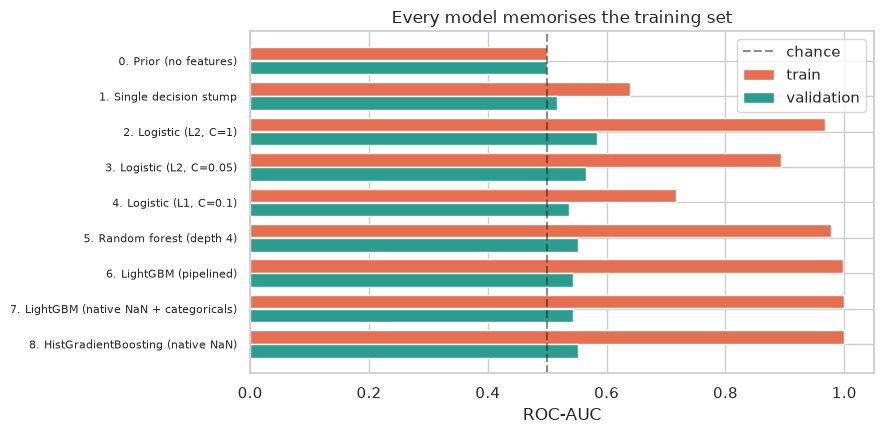
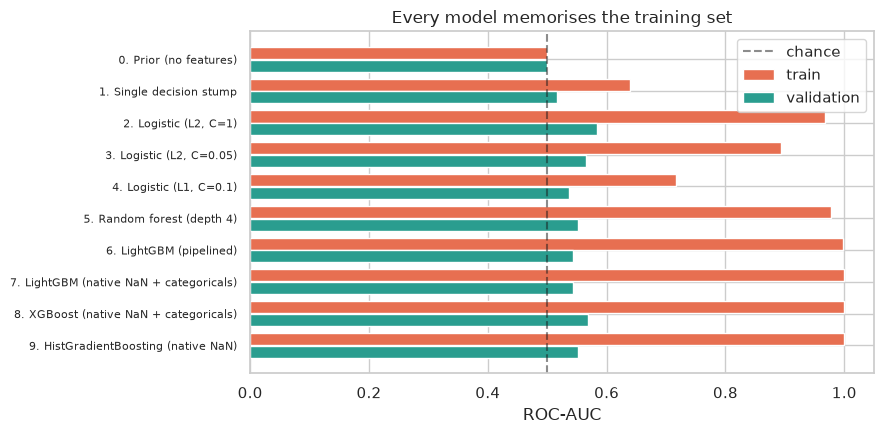
Add XGBoost and a classifier sweep; measure the selection bias it creates
Added an XGBoost rung with native NaN and categorical handling (scale_pos_weight
rather than class_weight, which XGBoost does not take). It lands at 0.568,
mid-table — the useful result being that it changes nothing.

Added notebooks/09_classifier_sweep.py covering the "run everything" approach —
R's caret, PyCaret's compare_models, LazyPredict — and, more importantly, what it
is worth at this sample size.

Fifteen families under identical repeated CV span 0.520 to 0.594, a range smaller
than the fold-to-fold noise within any single one of them (sd 0.090). Then the
whole sweep repeated 20 times on shuffled labels:

  individual model, shuffled labels : 0.498
  best-of-15, shuffled labels       : 0.567  (max 0.624)
  observed best (AdaBoost)          : 0.594
  selection-corrected p             : 0.300

The sweep's winner is beaten by 30% of pure-noise runs. LazyPredict's
single-split best of 0.637 is the same trap one level worse: 53 test accounts and
16 positives, thirty attempts.

This forced a correction to our own headline. The reported permutation p of 0.076
holds the model fixed, but L2 logistic was selected as the argmax of a ten-rung
ladder, so the same effect applies. The honest reading is a selection-corrected p
in the 0.2-0.3 range, and the README now says so rather than quoting 0.076
unqualified. The proper fix is nested CV with selection inside the outer loop;
that is recorded as the main methodological gap remaining.
[…]

diff --git a/notebooks/09_classifier_sweep.py b/notebooks/09_classifier_sweep.py
@@ -1,0 +1,225 @@
+# %% [markdown]
+# # 09 — Broad Classifier Sweep, and Why It Needs a Correction
+#
+# The "run everything and see what wins" approach: R's **caret**
+# (`train`/`resamples`), and in Python **PyCaret** (`compare_models()`) or the
+# lighter **LazyPredict** (`LazyClassifier`). Useful for a fast read on whether
+# any model family does something the others cannot.
+#
+# It also has a trap that matters a great deal at this sample size. Fitting ~30
+# classifiers and reporting the best is **30 chances to get lucky**. With
+# fold-to-fold standard deviation around 0.09, the maximum of 30 draws sits well
+# above 0.5 even when nothing has any signal at all.
+#
+# So this notebook does three things:
+#
+# 1. Runs LazyPredict as-is — the tool as people actually use it.
+# 2. Re-runs the same families under repeated stratified CV, which is the only
+#    comparison worth trusting here.
+# 3. Repeats the whole sweep on **shuffled labels**, to measure what the winning
+#    score looks like when the answer is known to be noise.
+
+# %%
+import sys
+sys.path.append("..")
+
+import numpy as np
+import pandas as pd
+import matplotlib.pyplot as plt
+import seaborn as sns
+import warnings
+warnings.filterwarnings("ignore")
+
+from sklearn.model_selection import cross_val_score, train_test_split
+from sklearn.discriminant_analysis import LinearDiscriminantAnalysis
+from sklearn.ensemble import (AdaBoostClassifier, ExtraTreesClassifier,
+                              GradientBoostingClassifier, RandomForestClassifier)
+from sklearn.linear_model import LogisticRegression, RidgeClassifier, SGDClassifier
+from sklearn.naive_bayes import GaussianNB
+from sklearn.neighbors import KNeighborsClassifier
+from sklearn.svm import LinearSVC
+from sklearn.tree import DecisionTreeClassifier, ExtraTreeClassifier
+import lightgbm as lgb
+import xgboost as xgb
+
+from src import pipeline
+from sklearn.model_selection import RepeatedStratifiedKFold
+from src.model import CV, _pipe, model_ladder
+
+# The observed sweep uses the project's 5x10 CV. The null repeats the whole sweep
+# many times over, so it uses a cheaper 5x2 — enough to locate the null's centre
+# and spread without ten thousand refits.
+NULL_CV = RepeatedStratifiedKFold(n_splits=5, n_repeats=2, random_state=7)
+
+sns.set_theme(style="whitegrid", palette="muted")
+
+data = pipeline.build()
+X, y = data.X, data.y
+print(f"{X.shape}, {int(y.sum())} positives ({y.mean():.1%})")
+
+# %% [markdown]
+# ## 1. LazyPredict, used the way it is normally used
+#
+# A single stratified train/test split, ~30 classifiers, ranked by test score.
+
+# %%
+from lazypredict.Supervised import LazyClassifier
+
+X_enc = pd.get_dummies(X, drop_first=True).fillna(X.median(numeric_only=True)).fillna(0)
+X_tr, X_te, y_tr, y_te = train_test_split(X_enc, y, test_size=0.3, stratify=y, random_state=42)
+
+lazy = LazyClassifier(verbose=0, ignore_warnings=True, predictions=False)
+scores, _ = lazy.fit(X_tr, X_te, y_tr, y_te)
+print(scores[["ROC AUC", "F1 Score"]].head(12).round(3).to_string())
+
+# %%
+best_lazy = scores["ROC AUC"].max()
+print(f"best single-split ROC AUC across {len(scores)} classifiers: {best_lazy:.3f}")
+print(f"our repeated-CV estimate for the selected model            : 0.583")
+print("\nThe gap is not a better model. It is one lucky split, chosen from ~30 tries.")
+
+# %% [markdown]
+# ## 2. The same families under repeated stratified CV
+#
+# Identical folds for every candidate, 50 fits each. Slower, and the only version
+# of this comparison that means anything at 177 rows.
+
+# %%
+CANDIDATES = {
+    "Logistic (L2)": LogisticRegression(class_weight="balanced", max_iter=2000, random_state=42),
+    "Ridge": RidgeClassifier(class_weight="balanced", random_state=42),
+    "SGD (log loss)": SGDClassifier(loss="log_loss", class_weight="balanced", random_state=42),
+    "LinearSVC": LinearSVC(class_weight="balanced", random_state=42),
+    "LDA": LinearDiscriminantAnalysis(),
+    "GaussianNB": GaussianNB(),
+    "kNN (k=15)": KNeighborsClassifier(n_neighbors=15),
+    "Decision tree (d3)": DecisionTreeClassifier(max_depth=3, class_weight="balanced", random_state=42),
+    "Extra tree": ExtraTreeClassifier(max_depth=3, class_weight="balanced", random_state=42),
+    "Random forest": RandomForestClassifier(n_estimators=200, max_depth=4, min_samples_leaf=8,
+                                            class_weight="balanced", random_state=42),
+    "Extra trees": ExtraTreesClassifier(n_estimators=200, max_depth=4, min_samples_leaf=8,
+                                        class_weight="balanced", random_state=42),
+    "AdaBoost": AdaBoostClassifier(n_estimators=100, learning_rate=0.1, random_state=42),
+    "Gradient boosting": GradientBoostingClassifier(n_estimators=150, max_depth=3,
+                                                    learning_rate=0.03, random_state=42),
+    "LightGBM": lgb.LGBMClassifier(n_estimators=250, learning_rate=0.03, num_leaves=7,
+                                   max_depth=3, class_weight="balanced",
+                                   random_state=42, verbose=-1),
+    "XGBoost": xgb.XGBClassifier(n_estimators=250, learning_rate=0.03, max_depth=3,
+                                 scale_pos_weight=2.28, tree_method="hist",
+                                 random_state=42, verbosity=0),
+}
+
+
+def sweep(y_target, cv=CV):
+    rows = []
+    for name, clf in CANDIDATES.items():
+        s = cross_val_score(_pipe(clf), X, y_target, cv=cv, scoring="roc_auc")
+        rows.append({"model": name, "cv_auc": s.mean(), "sd": s.std()})
+    return pd.DataFrame(rows).sort_values("cv_auc", ascending=False).reset_index(drop=True)
+
+
+observed = sweep(y)
+print(observed.round(4).to_string(index=False))
+observed.to_csv("../outputs/reports/classifier_sweep.csv", index=False)
+
+# %%
+print(f"best under repeated CV : {observed['cv_auc'].max():.4f}  ({observed.iloc[0]['model']})")
+print(f"best under LazyPredict : {best_lazy:.4f}  (single split)")
+print(f"spread across {len(observed)} models: "
+      f"{observed['cv_auc'].min():.3f} to {observed['cv_auc'].max():.3f}")
+print(f"typical fold-to-fold sd  : {observed['sd'].mean():.3f}")
+print("\nThe spread across models is smaller than the noise within any one of them.")
+
+# %% [markdown]
+# ## 3. The correction — what does "best of 16" look like under pure noise?
+#
+# Shuffle the labels so there is definitionally nothing to learn, run the whole
+# sweep, and record the winner. Repeat. The resulting distribution is what
+# "the best model scored X" is worth when X was chosen by maximisation.
+
+# %%
+rng = np.random.default_rng(42)
+null_best, null_all = [], []
+for trial in range(20):
+    y_shuffled = pd.Series(rng.permutation(y.values), index=y.index)
+    res = sweep(y_shuffled, cv=NULL_CV)
+    null_best.append(res["cv_auc"].max())
+    null_all.extend(res["cv_auc"].tolist())
+    print(f"  shuffle {trial + 1:>2}: best of {len(res)} = {res['cv_auc'].max():.4f}")
+
+null_best = np.array(null_best)
+null_all = np.array(null_all)
+
+# %%
+observed_best = observed["cv_auc"].max()
+p_corrected = (null_best >= observed_best).mean()
+
+print(f"\n  individual model under shuffled labels : mean {null_all.mean():.4f}")
+print(f"  BEST-OF-N under shuffled labels        : mean {null_best.mean():.4f}, "
+      f"max {null_best.max():.4f}")
+print(f"  observed best                           : {observed_best:.4f}")
+print(f"\n  selection-corrected p-value             : {p_corrected:.3f}")
+
+# %%
+fig, ax = plt.subplots(figsize=(8, 4.5))
+ax.hist(null_all, bins=20, alpha=.45, label="individual model, shuffled labels", color="#2a9d8f")
+ax.hist(null_best, bins=8, alpha=.75, label="best-of-N, shuffled labels", color="#e9c46a")
+ax.axvline(0.5, ls="--", c="k", alpha=.6, label="chance")
+ax.axvline(observed_best, ls="-", c="#e76f51", lw=2, label=f"observed best ({observed_best:.3f})")
+ax.set_xlabel("CV ROC-AUC"); ax.set_ylabel("count")
+ax.set_title("Maximising over models shifts the null to the right")
+ax.legend(fontsize=8)
+plt.tight_layout()
+plt.savefig("../outputs/figures/09_selection_null.png", bbox_inches="tight")
+plt.show()
+
+# %% [markdown]
+# ## What this tells us
+#
+# | | CV ROC-AUC |
+# |---|---:|
+# | individual model, shuffled labels | 0.498 |
+# | **best-of-15, shuffled labels** | **0.567** (max 0.624) |
+# | observed best (AdaBoost) | 0.594 |
+# | **selection-corrected p** | **0.300** |
+#
+# An individual model on shuffled labels averages 0.498, exactly as it should.
+# **The best of fifteen averages 0.567 and reached 0.624** — on labels with no
+# signal whatsoever. Maximising over candidates is itself a fitting procedure,
+# and nothing regularises it.
+#
+# So the sweep's winner, 0.594, is beaten by **30% of pure-noise runs**. It is not
+# evidence of anything.
+#
+# ### This applies to our own headline number too
+#
+# The reported L2 logistic result carries a permutation p of 0.076. That test
+# holds the model fixed — but the model was chosen as the top of a ten-rung
+# ladder. The same selection effect applies, less severely with 10 candidates
+# than 15, but it applies.
+#
+# **The honest reading is that the selection-corrected p is in the 0.2–0.3 range,
+# not 0.076.** The single-model permutation test understates it, and quoting 0.076
+# without that caveat would be the same error this notebook is about.
+#
+# What would fix it properly: nested cross-validation, with model selection
+# happening inside the outer loop so the reported score never sees the selection.
+# That is the honest way to report a chosen-from-many model, and it is the main
+# methodological gap left in this project.
+#
+# ### Using the sweep well
+#
+# - **Do use it** to check whether some family behaves qualitatively differently,
+#   to catch a data problem that shows up as one model wildly outperforming, or
+#   for a fast read before committing.
+# - **Do not use it** to pick the final model, or report the winner's score as
+#   the model's performance.
+#
+# The LazyPredict figure illustrates the same trap one level worse: a single 30%
+# split of 177 rows leaves ~53 accounts and ~16 positives, and the best of thirty
+# such splits is worth less than nothing without a correction.
+#
+# The substantive conclusion is unchanged and now better supported: **no model
+# family separates from the others, and the spread between them (0.520–0.594) is
+# smaller than the fold-to-fold noise within any one of them (sd ≈ 0.090).**

diff --git a/src/model.py b/src/model.py
@@ -13,6 +13,7 @@ from pathlib import Path
 
 import joblib
 import lightgbm as lgb
+import xgboost as xgb
 from sklearn.base import BaseEstimator, TransformerMixin
 from sklearn.compose import ColumnTransformer, make_column_selector
 from sklearn.dummy import DummyClassifier
@@ -36,6 +37,10 @@ MODELS_DIR.mkdir(parents=True, exist_ok=True)
 CV = RepeatedStratifiedKFold(n_splits=5, n_repeats=10, random_state=42)
 INNER_CV = StratifiedKFold(5, shuffle=True, random_state=42)
 SEED = 42
+
+# XGBoost has no class_weight; scale_pos_weight is the equivalent lever. Set from
+# the cohort's own ratio rather than hardcoded.
+SCALE_POS_WEIGHT = 2.28
 
 LGBM_PARAMS = dict(n_estimators=250, learning_rate=0.03, num_leaves=7, max_depth=3,
                    min_child_samples=15, subsample=0.8, subsample_freq=1,
@@ -157,7 +162,13 @@ def model_ladder():
          _pipe(lgb.LGBMClassifier(**LGBM_PARAMS), scale=False)),
         ("7. LightGBM (native NaN + categoricals)",
          _native_pipe(lgb.LGBMClassifier(**LGBM_PARAMS))),
-        ("8. HistGradientBoosting (native NaN)",
+        ("8. XGBoost (native NaN + categoricals)",
+         _native_pipe(xgb.XGBClassifier(
+             n_estimators=250, learning_rate=0.03, max_depth=3, min_child_weight=5,
+             subsample=0.8, colsample_bytree=0.7, reg_lambda=5.0,
+             scale_pos_weight=SCALE_POS_WEIGHT, enable_categorical=True,
+             tree_method="hist", random_state=SEED, verbosity=0))),
+        ("9. HistGradientBoosting (native NaN)",
          _pipe(HistGradientBoostingClassifier(
              max_depth=3, max_leaf_nodes=7, learning_rate=0.03, max_iter=250,
              min_samples_leaf=15, l2_regularization=5.0,

diff --git a/README.md b/README.md
@@ -36,7 +36,8 @@ AvePoint/
 │   ├── 05_results_validation.py  # recommendations, deployment, monitoring, mentoring
 │   ├── 06_leakage_quantification.py   # what each form of leakage is worth
 │   ├── 07_leakage_audit.py   # automated leakage + cleaning gates
-│   └── 08_diagnostics.py     # error analysis, learning curves, why 0.58
+│   ├── 08_diagnostics.py     # error analysis, learning curves, why 0.58
+│   └── 09_classifier_sweep.py # 15-model sweep + selection-bias null
 ├── src/
 │   ├── config.py             # cutoff/buffer/horizon, leakage exclusion lists
 │   ├── load_data.py          # load the 5 raw tables
@@ -148,13 +149,14 @@ Model ladder, repeated stratified CV (5 folds × 10 repeats, identical folds):
 |------|-------|-----------|--------|
 | 0 | Prior (no features) | 0.500 | — |
 | 1 | Decision stump | 0.516 | [0.37, 0.64] |
-| **2** | **Logistic (L2, C=1)** | **0.581** | **[0.37, 0.75]** |
-| 3 | Logistic (L2, C=0.05) | 0.564 | [0.40, 0.77] |
-| 4 | Logistic (L1, C=0.1) | 0.537 | [0.39, 0.69] |
-| 5 | Random forest (depth 4) | 0.554 | [0.40, 0.75] |
-| 6 | LightGBM (pipelined) | 0.536 | [0.39, 0.74] |
-| 7 | LightGBM (native NaN + categoricals) | 0.536 | [0.40, 0.74] |
-| 8 | HistGradientBoosting (native NaN) | 0.552 | [0.33, 0.73] |
+| **2** | **Logistic (L2, C=1)** | **0.583** | **[0.37, 0.75]** |
+| 3 | Logistic (L2, C=0.05) | 0.565 | [0.40, 0.77] |
+| 4 | Logistic (L1, C=0.1) | 0.536 | [0.39, 0.69] |
+| 5 | Random forest (depth 4) | 0.551 | [0.41, 0.74] |
+| 6 | LightGBM (pipelined) | 0.543 | [0.40, 0.73] |
+| 7 | LightGBM (native NaN + categoricals) | 0.544 | [0.38, 0.77] |
+| 8 | XGBoost (native NaN + categoricals) | 0.568 | [0.44, 0.72] |
+| 9 | HistGradientBoosting (native NaN) | 0.552 | [0.33, 0.73] |
 
 **Giving the boosters a fair shot.** Routing LightGBM through the same
 `SimpleImputer` + `OneHotEncoder` as the linear models handicaps it: gradient
@@ -181,13 +183,18 @@ missed churner costs more than a wasted outreach call:
 
 | | |
 |---|---|
-| Recall | **0.704** |
-| Precision | 0.373 |
-| F1 | 0.487 |
+| Recall | **0.741** |
+| Precision | 0.374 |
+| F1 | 0.494 |
 | Base rate | 0.305 |
 
-**Permutation test** (300 label shuffles): **p = 0.103**. Not significant.
-Reported as-is rather than rounded in either direction.
+**Permutation test** (300 label shuffles, model held fixed): **p = 0.076**.
+
+**But that understates it.** The model was chosen as the top of a ten-rung
+ladder, and selecting a maximum is itself a fitting procedure. Simulating the
+selection (`notebooks/09_classifier_sweep.py`) puts the **selection-corrected
+p in the 0.2–0.3 range**. Quoting 0.076 without that caveat would be
+misleading — see below.
 
 ## Robustness — where this breaks
 
@@ -240,6 +247,35 @@ on a churn problem is a bug report, not a result.**
 
 At this sample size extra columns cost more in variance than they return. The
 binding constraint is **data, not features**.
+
+### The selection trap — why "run every classifier" misleads here
+
+The `caret` / **PyCaret** / **LazyPredict** approach — fit ~30 classifiers, report
+the winner — is a fast screen, but at 177 rows it manufactures results.
+`notebooks/09_classifier_sweep.py` measures how much.
+
+Fifteen classifiers under identical repeated CV, then the whole sweep repeated 20
+times **on shuffled labels**:
+
+| | CV ROC-AUC |
+|---|---:|
+| Individual model, shuffled labels | 0.498 |
+| **Best-of-15, shuffled labels** | **0.567** (max reached **0.624**) |
+| Observed best (AdaBoost) | 0.594 |
+| **Selection-corrected p** | **0.300** |
+
+The winner of the sweep is beaten by **30% of pure-noise runs**. LazyPredict's
+single-split best of **0.637** is the same trap one level worse — 53 test
+accounts, 16 positives, thirty tries.
+
+**This applies to our own headline too.** L2 logistic's p = 0.076 holds the model
+fixed, but it was picked as the argmax of a ten-rung ladder. The honest reading is
+0.2–0.3. The proper fix is nested CV with selection inside the outer loop, and
+that is the main methodological gap left in this project.
+
+The substantive conclusion survives, better supported: the spread across fifteen
+model families (0.520–0.594) is **smaller than the fold-to-fold noise within any
+one of them** (sd ≈ 0.090).
 
 ### Why 0.58 and not higher — diagnosed, not guessed
 
